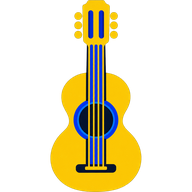
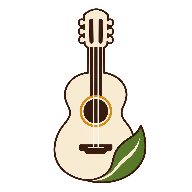
feat(marca): violão creme com a folha, do conjunto gerado
Quarta arte do dia. Vem do favicon.zip (RealFaviconGenerator), agora com as
renderizações de 16, 32 e 48 feitas pelo próprio gerador, em vez de eu reduzir
um PNG grande.

Medido contra o amarelo anterior, no tamanho de 16px: área opaca de 63/256
contra 204/256, e contraste médio de 130 em barra de aba escura contra 108, mas
de 86 em barra clara contra 121. Ou seja, destaca mais em tema escuro e menos em
tema claro. Vale saber qual dos dois importa mais antes de fechar a decisão.

Três coisas do zip ficaram de fora, de propósito:

O favicon.svg tem 670 KB e nenhuma tag de forma vetorial — é um PNG em base64
dentro de um invólucro SVG. Não escala melhor que os PNG e seria, sozinho, o
maior arquivo servido pelo site.

O site.webmanifest do zip é o modelo de fábrica: name "MyWebSite", short_name
"MySite" e theme_color branco. O nosso já tem o nome certo e o #0058e6 que casa
com a barra de endereço.

E ele declara os ícones como purpose "maskable", que o desenho não sustenta: o
512 tem margem de 142px de lado e 22px em cima, então o Android cortaria o
violão ao aplicar a máscara circular. Os nossos seguem sem purpose, que é o
comportamento correto para arte sem zona de segurança.

Os arquivos do zip se chamam web-app-manifest-*; renomeados para os nomes que o
index.html e o manifesto já apontam, em vez de mexer nos dois.

O ?v= subiu para 6.

Changed region(s): [[0.25, 0.0, 0.7812, 1.0]]

diff --git a/index.html b/index.html
@@ -2,11 +2,11 @@
 <html lang="pt-BR">
   <head>
     <meta charset="UTF-8" />
-    <link rel="icon" type="image/png" sizes="32x32" href="/favicon-32x32.png?v=5" />
-    <link rel="icon" type="image/png" sizes="16x16" href="/favicon-16x16.png?v=5" />
-    <link rel="icon" href="/favicon.ico?v=5" sizes="any" />
-    <link rel="apple-touch-icon" href="/apple-touch-icon.png?v=5" />
-    <link rel="manifest" href="/site.webmanifest?v=5" />
+    <link rel="icon" type="image/png" sizes="32x32" href="/favicon-32x32.png?v=6" />
+    <link rel="icon" type="image/png" sizes="16x16" href="/favicon-16x16.png?v=6" />
+    <link rel="icon" href="/favicon.ico?v=6" sizes="any" />
+    <link rel="apple-touch-icon" href="/apple-touch-icon.png?v=6" />
+    <link rel="manifest" href="/site.webmanifest?v=6" />
     <meta name="viewport" content="width=device-width, initial-scale=1.0" />
     <meta name="theme-color" content="#0058e6" />
 
